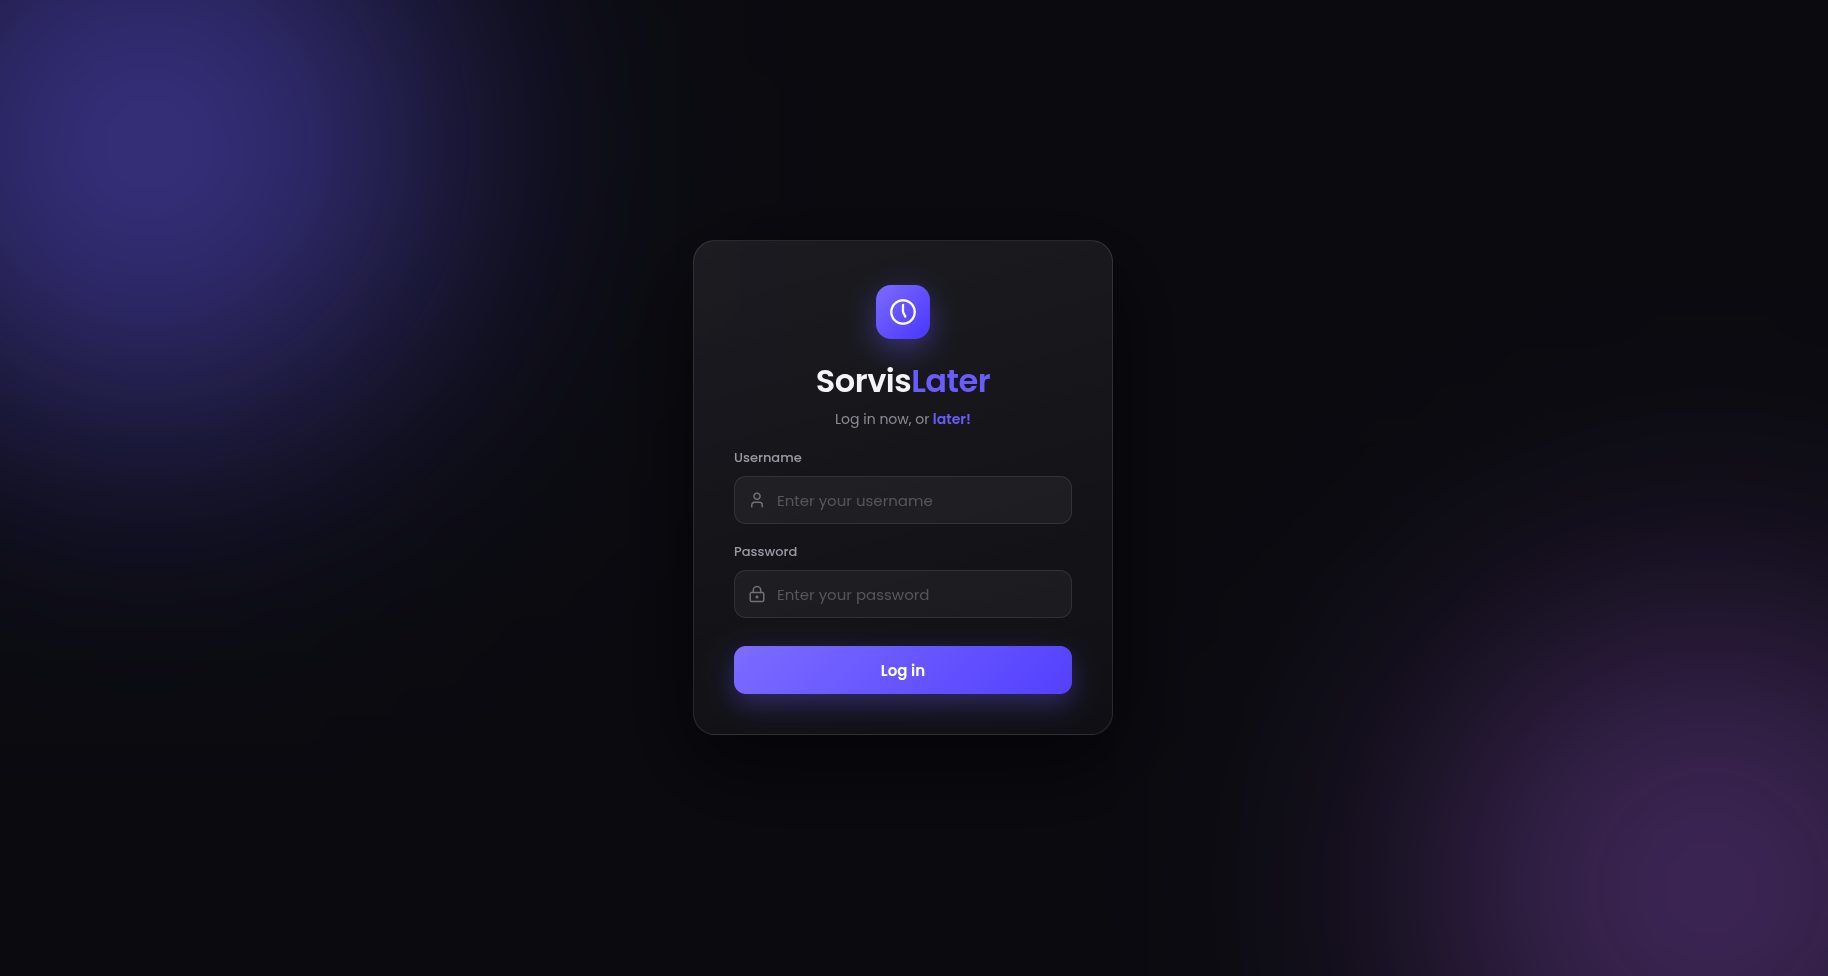
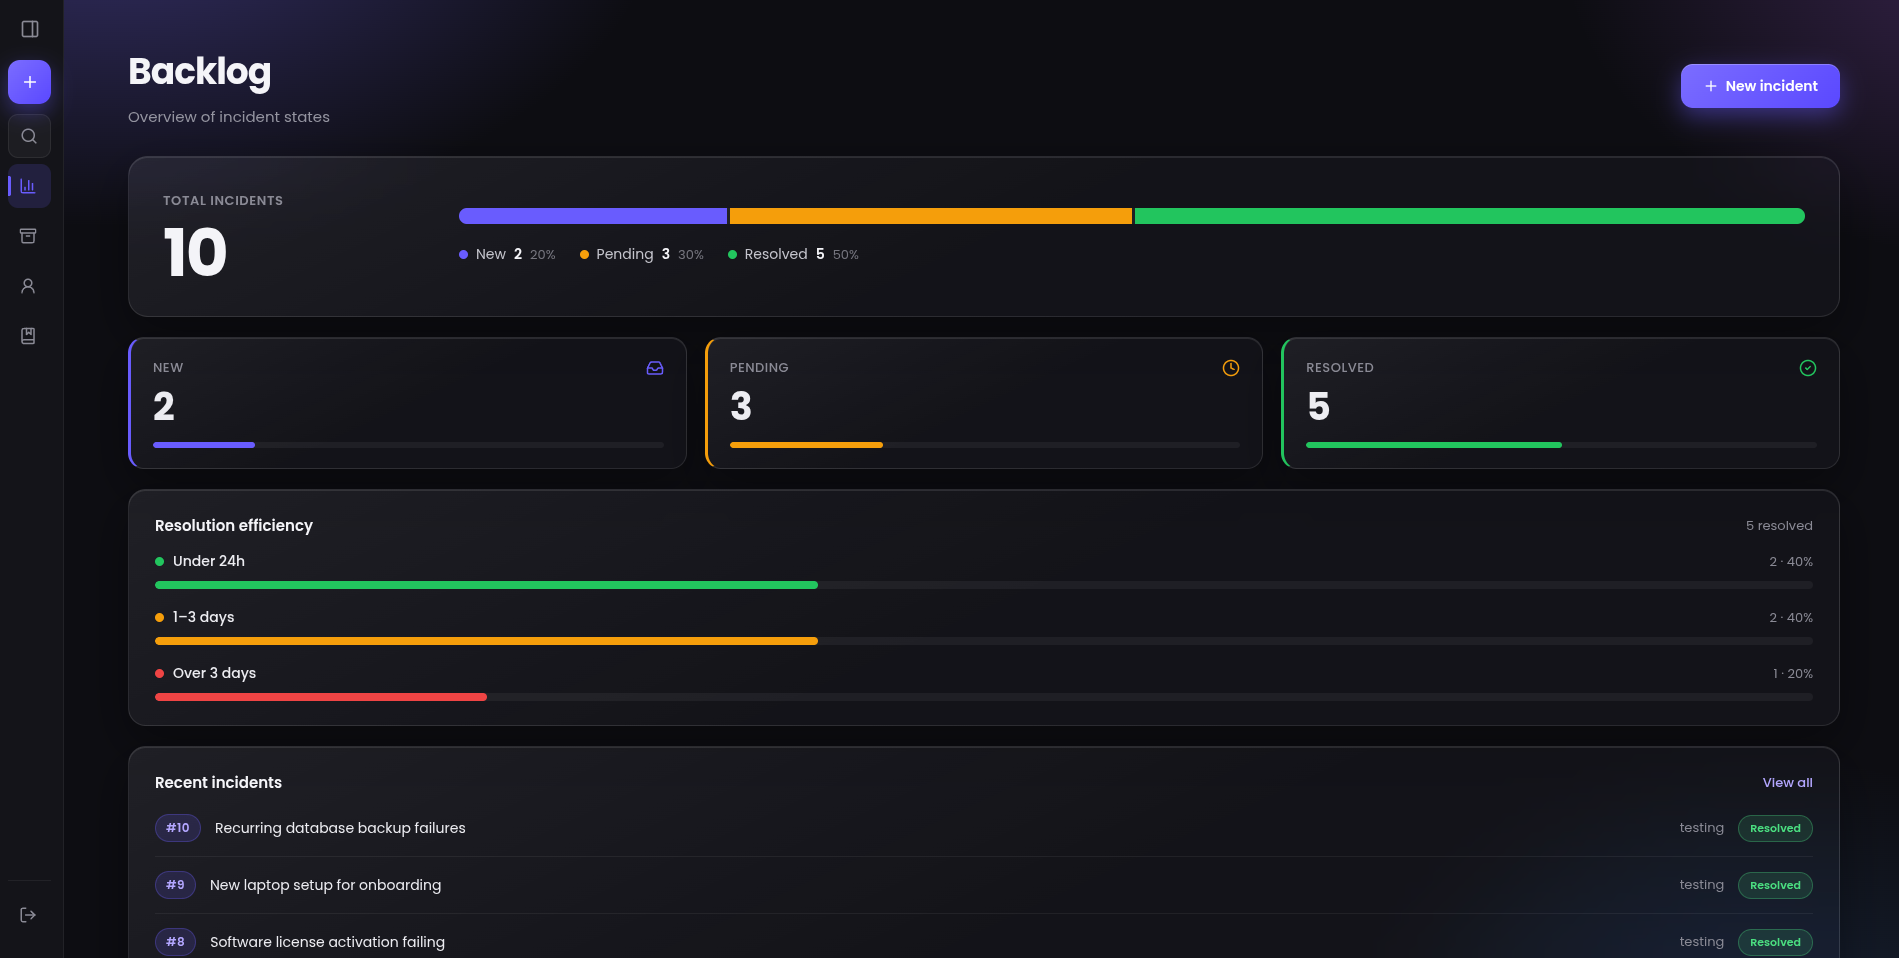
add: new SorvisLater

diff --git a/src/data/portfolio.ts b/src/data/portfolio.ts
@@ -81,9 +81,9 @@ export const portfolio = {
     {
       title: 'SorvisLater',
       image: '/projects/sorvis.png',
-      description: 'A solution originally created to help game server administrators — specifically Minecraft in this case — manage issue reports. Originally built with Express, later upgraded to NestJS.',
-      tech: ['Node.js', 'MySQL', 'NestJS', 'TypeScript', 'React'],
-      github: 'https://github.com/AgusLasalvia/SorviceLater',
+      description: 'A solution originally created to help game server administrators — specifically Minecraft in this case — manage issue reports. Originally built with Express, later upgraded to NestJS. UI based on a design by <a href="https://www.linkedin.com/in/joaquingomezleites/" target="_blank" rel="noopener">Joaquín Gómez</a>.',
+      tech: ['Node.js', 'SQLite', 'NestJS', 'TypeScript', 'React'],
+      github: 'https://github.com/aguslasalvia/sorvicelater',
       demo: 'https://later.aguslasalvia.online/'
     },
     {
